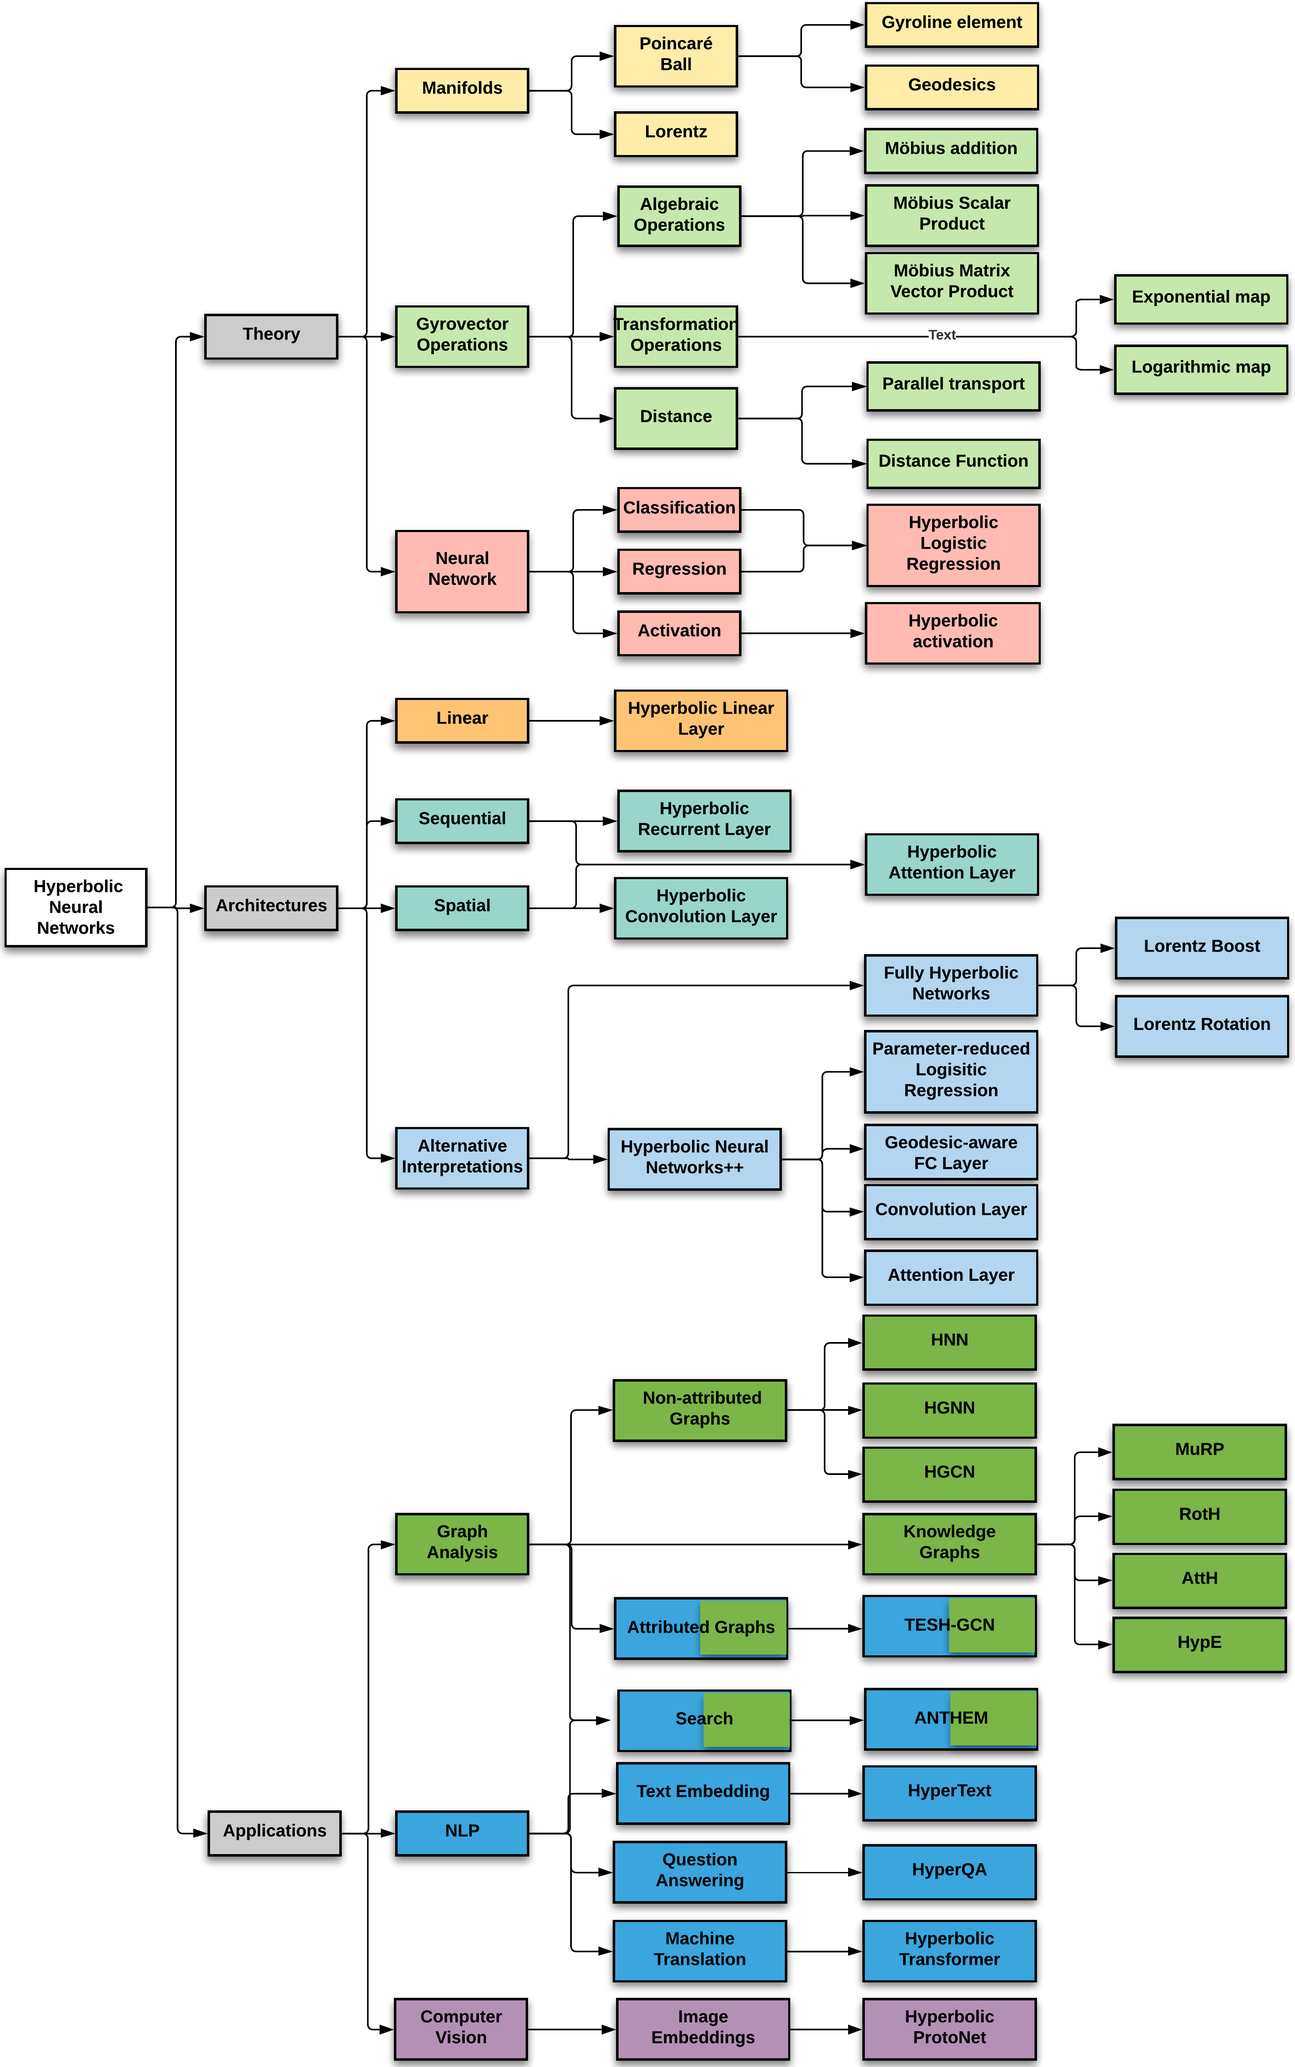
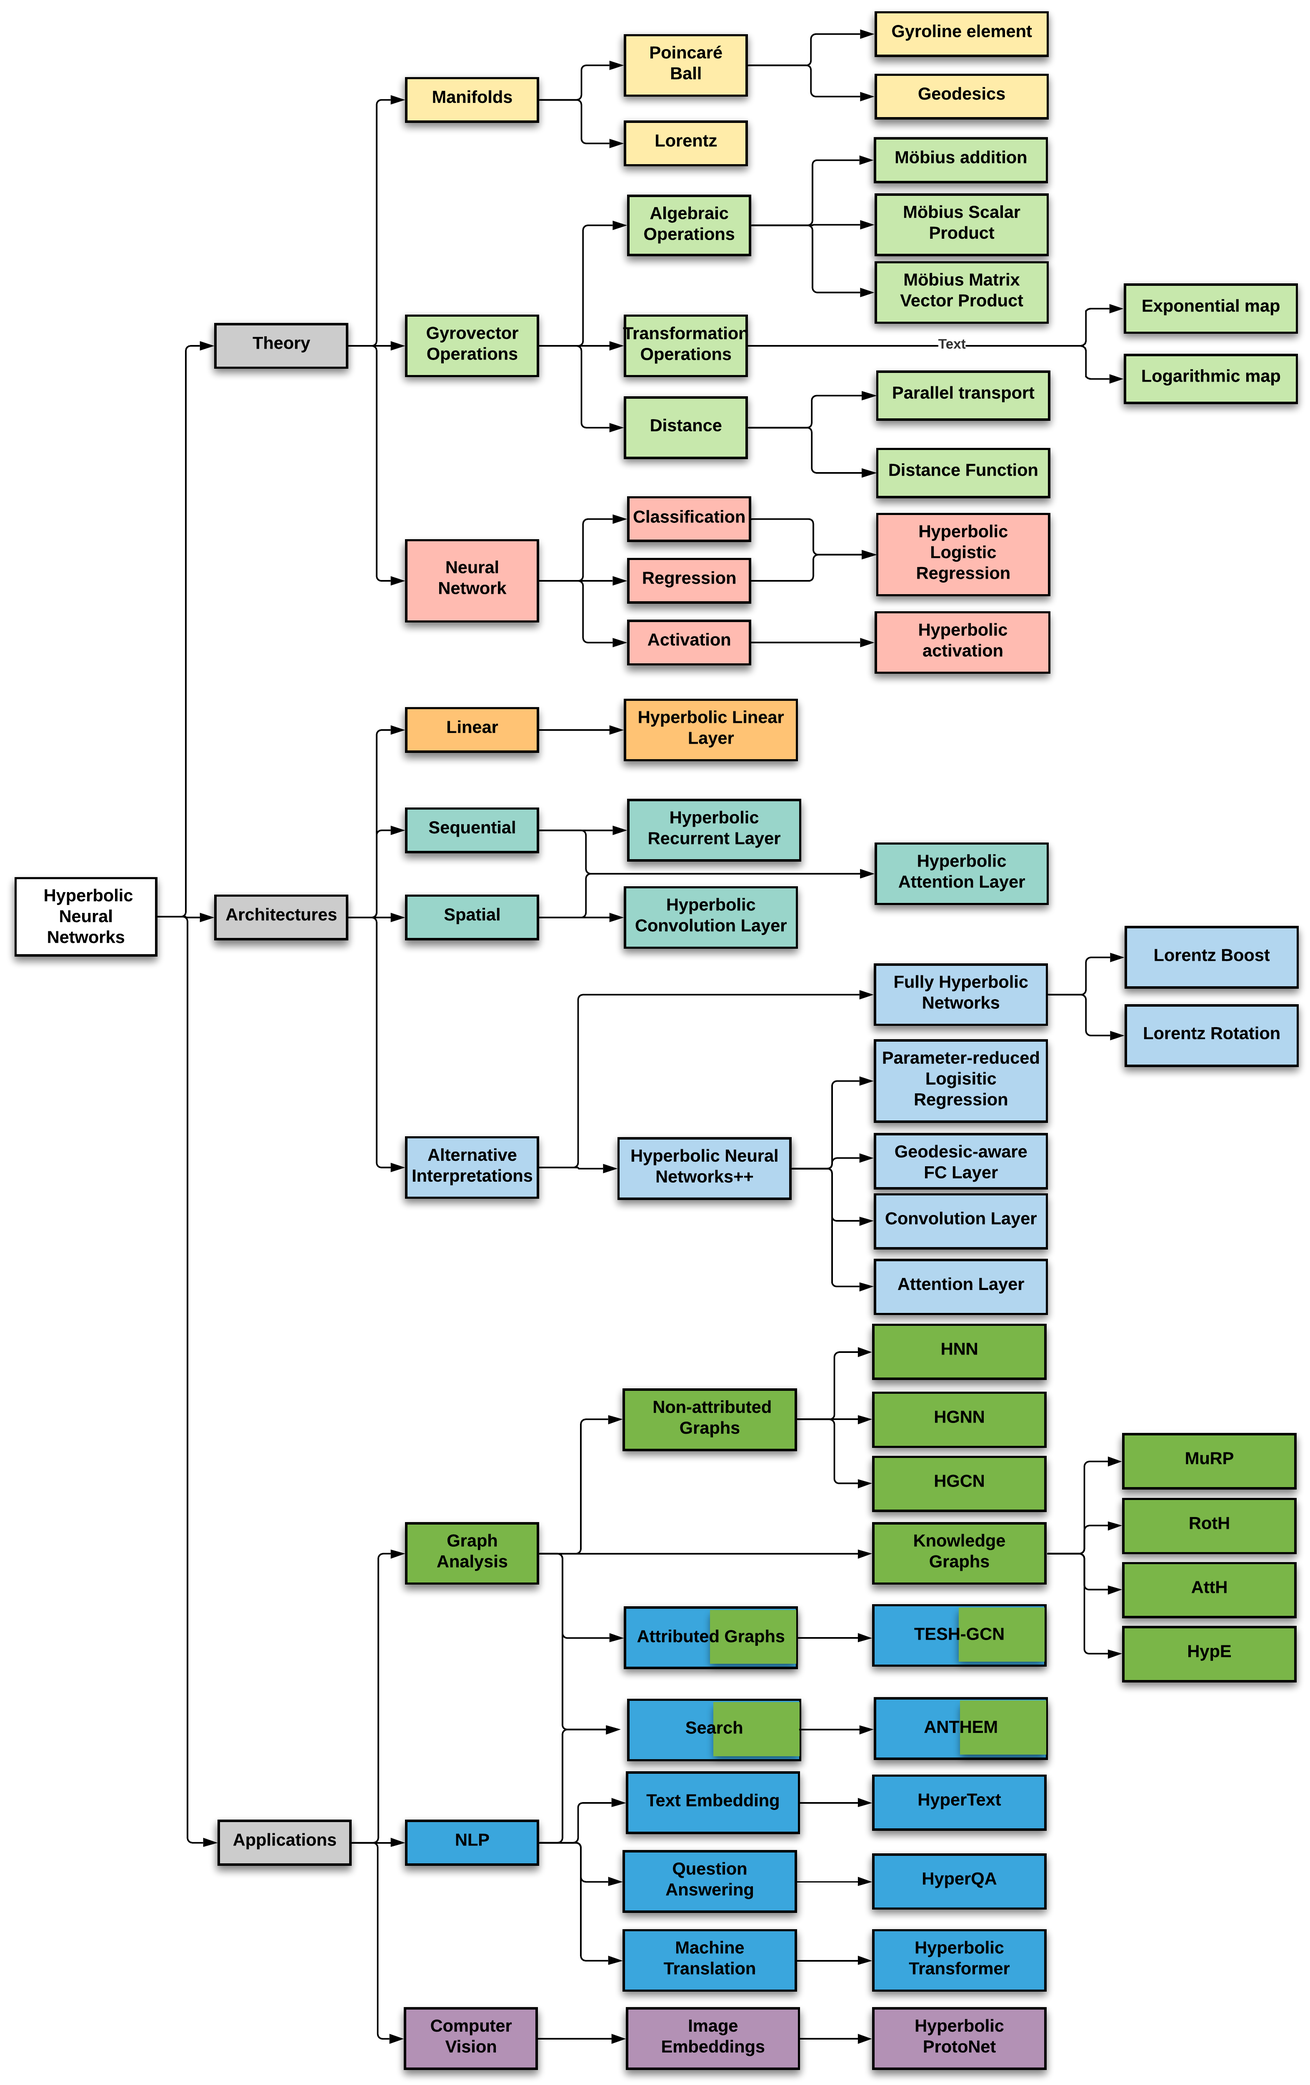
new parts

diff --git a/index.html b/index.html
@@ -31,18 +31,30 @@
                     <li class="nav-item"><a class="nav-link js-scroll-trigger" href="#teaser">Introduction Video</a></li>
                     <li class="nav-item"><a class="nav-link js-scroll-trigger" href="#speakers">Speakers</a></li>
                     <li class="nav-item"><a class="nav-link js-scroll-trigger" href="#schedule">Schedule</a></li>
-                    <li class="nav-item"><a class="nav-link js-scroll-trigger" href="#tree">Topic Tree</a></li>
+                    <li class="nav-item"><a class="nav-link js-scroll-trigger" href="#taxonomy">Taxonomy</a></li>
                     <li class="nav-item"><a class="nav-link js-scroll-trigger" href="#resources">Resources</a></li>
                     <!-- <li class="nav-item"><a class="nav-link js-scroll-trigger" href="#interests">Interests</a></li>
                     <li class="nav-item"><a class="nav-link js-scroll-trigger" href="#awards">Awards</a></li> -->
                 </ul>
             </div>
             <span class="d-block d-lg-none">Virginia Tech</span>
-            <span class="d-none d-lg-block" style="background-color: rgb(300, 300, 300)";><img class="img-fluid img-profile mx-auto mb-2" src="assets/img/vt.png" width="70%" alt="Virginia Tech" /></span>
+            <span class="d-none d-lg-block" style="background-color: rgb(300, 300, 300)";>
+                <a href="https://sanghani.cs.vt.edu/" target="_blank" rel="noopener noreferrer">
+                    <img class="img-fluid img-profile mx-auto mb-2" src="assets/img/vt.png" width="70%" alt="Virginia Tech"/>
+                </a>
+            </span>
             <span class="d-block d-lg-none">Amazon</span>
-            <span class="d-none d-lg-block" style="background-color: rgb(300, 300, 300)";><img class="img-fluid img-profile mx-auto mb-2" src="assets/img/amazon.png" width="60%" alt="Amazon" /></span>
+            <span class="d-none d-lg-block" style="background-color: rgb(300, 300, 300)";>
+                <a href="https://www.amazon.science/" target="_blank" rel="noopener noreferrer">
+                    <img class="img-fluid img-profile mx-auto mb-2" src="assets/img/amazon.png" width="60%" alt="Amazon" />
+                </a>
+            </span>
             <span class="d-block d-lg-none">TheWebConf22</span>
-            <span class="d-none d-lg-block" style="background-color: rgb(300, 300, 300)";><img class="img-fluid img-profile mx-auto mb-2" src="assets/img/twc22.png" width="70%" alt="TheWebConf22" /></span>
+            <span class="d-none d-lg-block" style="background-color: rgb(300, 300, 300)";>
+                <a href="https://www2022.thewebconf.org/" target="_blank" rel="noopener noreferrer">
+                    <img class="img-fluid img-profile mx-auto mb-2" src="assets/img/twc22.png" width="70%" alt="TheWebConf22" />
+                </a>
+            </span>
         </nav>
         <!-- Page Content-->
         <div class="container-fluid p-0">
@@ -52,10 +64,12 @@
                         Hyperbolic Networks:<br>
                         <span class="text-primary">Theory, Architectures and Applications</span>
                     </h2>
-                    <div class="subheading mb-5">
+                    <h5 class="mb-5" style="font-family: 'Trebuchet MS', 'Lucida Sans Unicode', 'Lucida Grande', 'Lucida Sans', Arial, sans-serif">
                         Tutorial @ <a href="https://www2022.thewebconf.org/">TheWebconf 2022</a> · Online · Time and Link: TBD ·
-                        <!-- <a href="mailto:name@email.com">name@email.com</a> -->
-                    </div>
+                    </h5>
+                    <!-- <div class="subheading mb-5" style="font-family: 'Trebuchet MS', 'Lucida Sans Unicode', 'Lucida Grande', 'Lucida Sans', Arial, sans-serif">
+                        Tutorial @ <a href="https://www2022.thewebconf.org/">TheWebconf 2022</a> · Online · Time and Link: TBD ·
+                    </div> -->
                     <p class="lead mb-5">Graphs are ubiquitous data-structures that are widely-used in a
                         number of data storage scenarios, including social networks, recommender systems, 
                         knowledge graphs and e-commerce. This has led to a rise of GNN architectures to 
@@ -82,10 +96,10 @@
                         and computer vision and compare the performance gains to the
                         Euclidean counterparts.</p>
                     <div class="social-icons">
-                        <a class="social-icon" href="#!"><i class="fab fa-linkedin-in"></i></a>
-                        <a class="social-icon" href="#!"><i class="fab fa-github"></i></a>
-                        <a class="social-icon" href="#!"><i class="fab fa-twitter"></i></a>
-                        <a class="social-icon" href="#!"><i class="fab fa-facebook-f"></i></a>
+                        <a class="social-icon" href="https://www.linkedin.com/shareArticle?mini=true&url=https://akirato.github.io/hyperbolic-networks-tutorial/" target="_blank" rel="noopener noreferrer"><i class="fab fa-linkedin-in"></i></a>
+                        <!-- <a class="social-icon" href="#!"><i class="fab fa-github"></i></a> -->
+                        <a class="social-icon" href="https://twitter.com/intent/tweet?url=https://akirato.github.io/hyperbolic-networks-tutorial/&text=Tutorial@TheWebConf2022%20on%20Hyperbolic%20Networks:%20Theory,%20Architectures%20and%20Applications" target="_blank" rel="noopener noreferrer"><i class="fab fa-twitter"></i></a>
+                        <a class="social-icon" href="https://www.facebook.com/sharer/sharer.php?u=https://akirato.github.io/hyperbolic-networks-tutorial/" target="_blank" rel="noopener noreferrer"><i class="fab fa-facebook-f"></i></a>
                     </div>
                 </div>
             </section>
@@ -107,31 +121,26 @@
             <section class="resume-section" id="speakers">
                 <div class="resume-section-content">
                     <h2 class="mb-5">Speakers</h2>
-                    <div class="d-flex flex-column flex-md-row justify-content-between mb-5">
-                        <a class="navbar-brand js-scroll-trigger" href="https://people.cs.vt.edu/~reddy/">
-                            <span class="d-block d-lg-none">Chandan Reddy</span>
-                            <span class="d-none d-lg-block"><img class="img-fluid img-profile rounded-circle mx-auto mb-2" src="assets/img/reddy.jpeg" alt="Chandan Reddy" /></span>
+                    <div class="d-flex flex-column flex-md-row justify-content-between">
+                        <a class="navbar-brand js-scroll-trigger" href="https://nurendra.me/">
+                            <span class="d-block d-lg-none">Nurendra Choudhary</span>
+                            <span class="d-none d-lg-block"><img class="img-fluid img-profile rounded-circle mx-auto mb-2" src="assets/img/nurendra.jpeg" alt="Chandan Reddy" /></span>
                         </a>
                         <div class="flex-grow-1">
-                            <h3 class="mb-0">Chandan Reddy</h3>
-                            <div class="subheading mb-3">Professor, Department of Computer Science, Virginia Tech</div>
-                            <p>Chandan Reddy received his Ph.D. from Cornell University and M.S. from Michigan State University. 
-                                His primary research
-                                interests are Data Mining and Machine Learning with applications
-                                to Healthcare Analytics and Social Network Analysis. His research
-                                has been funded by NSF, NIH, DOE, DOT, and various industries.
-                                He has published over 140 peer-reviewed articles in leading conferences 
-                                and journals. He received several awards for his research
-                                work including the Best Application Paper Award at ACM SIGKDD
-                                conference in 2010, Best Poster Award at IEEE VAST conference in
-                                2014, Best Student Paper Award at IEEE ICDM conference in 2016,
-                                and was a finalist of the INFORMS Franz Edelman Award Competition 
-                                in 2011. He is serving on the editorial boards of ACM TKDD,
-                                ACM TIST, and IEEE Big Data journals. He is a senior member of
-                                the IEEE and distinguished member of the ACM.</p>
+                            <h3 class="mb-0">Nurendra Choudhary</h3>
+                            <div class="subheading mb-3">Ph.D. student, Virginia Tech</div>
+                            <p>Nurendra Choudhary is a Ph.D. student in the department of
+                                Computer Science at Virginia Tech. His research, under advisor Dr.
+                                Chandan Reddy, is focused on representation learning in the fields
+                                of graph analysis and product search. He has published several peer-
+                                reviewed papers in top-tier conferences including WWW, NeurIPS,
+                                WSDM, and COLING. He has received his M.S. in Computational
+                                Linguistics from International Institute of Information Technology,
+                                during which he received the Best Paper Award at CICLING, 2018.</p>
                         </div>
-                        <!-- <div class="flex-shrink-0"><span class="text-primary">March 2013 - Present</span></div> -->
+                        <!-- <div class="flex-shrink-0"><span class="text-primary">September 2008 - June 2010</span></div> -->
                     </div>
+                    <br><br>
                     <div class="d-flex flex-column flex-md-row justify-content-between mb-5">
                         <a class="navbar-brand js-scroll-trigger" href="https://sites.google.com/view/raonikhil/home">
                             <span class="d-block d-lg-none">Nikhil Rao</span>
@@ -202,25 +211,31 @@
                         </div>
                         <!-- <div class="flex-shrink-0"><span class="text-primary">September 2008 - June 2010</span></div> -->
                     </div>
-                    <br/><br/>
-                    <div class="d-flex flex-column flex-md-row justify-content-between">
-                        <a class="navbar-brand js-scroll-trigger" href="https://nurendra.me/">
-                            <span class="d-block d-lg-none">Nurendra Choudhary</span>
-                            <span class="d-none d-lg-block"><img class="img-fluid img-profile rounded-circle mx-auto mb-2" src="assets/img/nurendra.jpeg" alt="Chandan Reddy" /></span>
+                    <br><br>
+                    <div class="d-flex flex-column flex-md-row justify-content-between mb-5">
+                        <a class="navbar-brand js-scroll-trigger" href="https://people.cs.vt.edu/~reddy/">
+                            <span class="d-block d-lg-none">Chandan Reddy</span>
+                            <span class="d-none d-lg-block"><img class="img-fluid img-profile rounded-circle mx-auto mb-2" src="assets/img/reddy.jpeg" alt="Chandan Reddy" /></span>
                         </a>
                         <div class="flex-grow-1">
-                            <h3 class="mb-0">Nurendra Choudhary</h3>
-                            <div class="subheading mb-3">Ph.D. student, Virginia Tech</div>
-                            <p>Nurendra Choudhary is a Ph.D. student in the department of
-                                Computer Science at Virginia Tech. His research, under advisor Dr.
-                                Chandan Reddy, is focused on representation learning in the fields
-                                of graph analysis and product search. He has published several peer-
-                                reviewed papers in top-tier conferences including WWW, NeurIPS,
-                                WSDM, and COLING. He has received his M.S. in Computational
-                                Linguistics from International Institute of Information Technology,
-                                during which he received the Best Paper Award at CICLING, 2018.</p>
+                            <h3 class="mb-0">Chandan Reddy</h3>
+                            <div class="subheading mb-3">Professor, Department of Computer Science, Virginia Tech</div>
+                            <p>Chandan Reddy received his Ph.D. from Cornell University and M.S. from Michigan State University. 
+                                His primary research
+                                interests are Data Mining and Machine Learning with applications
+                                to Healthcare Analytics and Social Network Analysis. His research
+                                has been funded by NSF, NIH, DOE, DOT, and various industries.
+                                He has published over 140 peer-reviewed articles in leading conferences 
+                                and journals. He received several awards for his research
+                                work including the Best Application Paper Award at ACM SIGKDD
+                                conference in 2010, Best Poster Award at IEEE VAST conference in
+                                2014, Best Student Paper Award at IEEE ICDM conference in 2016,
+                                and was a finalist of the INFORMS Franz Edelman Award Competition 
+                                in 2011. He is serving on the editorial boards of ACM TKDD,
+                                ACM TIST, and IEEE Big Data journals. He is a senior member of
+                                the IEEE and distinguished member of the ACM.</p>
                         </div>
-                        <!-- <div class="flex-shrink-0"><span class="text-primary">September 2008 - June 2010</span></div> -->
+                        <!-- <div class="flex-shrink-0"><span class="text-primary">March 2013 - Present</span></div> -->
                     </div>
                 </div>
             </section>
@@ -285,9 +300,9 @@
                 </div>
             </section>
             <hr class="m-0" />
-            <section class="resume-section" id="tree">
+            <section class="resume-section" id="taxonomy">
                 <div class="resume-section-content">
-                    <h2 class="mb-5">Topic Tree</h2>
+                    <h2 class="mb-5">Taxonomy</h2>
                     <img src="assets/img/taxonomy.png" class="img-fluid" alt="Responsive image" width="75%">
                 </div>
             </section>
@@ -305,24 +320,33 @@
                         </li>
                         <li>
                             <span class="fa-li" style="color: #BD5D38;"><i class="fas fa-book-open"></i></span>
-                            Choudhary, N., Rao, N., Katariya, S., Subbian, K., & Reddy, C. K. (2021, April). Self-Supervised Hyperboloid Representations from Logical Queries over Knowledge Graphs. In Proceedings of the Web Conference 2021 (pp. 1373-1384).
+                            Choudhary, N., Rao, N., Katariya, S., Subbian, K., & Reddy, C. K. (2022, February). ANTHEM: Attentive Hyperbolic Entity Model for Product Search. In Proceedings of the International Conference on Web Search and Data Mining 2022.
+                            (<a href="https://people.cs.vt.edu/~reddy/papers/WSDM22.pdf" target="_blank" rel="noopener noreferrer">pdf</a>)
                         </li>
                         <li>
                             <span class="fa-li" style="color: #BD5D38;"><i class="fas fa-book-open"></i></span>
                             Choudhary, N., Rao, N., Katariya, S., Subbian, K., & Reddy, C. (2021). Probabilistic Entity Representation Model for Reasoning over Knowledge Graphs. Advances in Neural Information Processing Systems, 34.
+                            (<a href="https://people.cs.vt.edu/~reddy/papers/NeurIPS21.pdf" target="_blank" rel="noopener noreferrer">pdf</a>)
+                        </li>
+                        <li>
+                            <span class="fa-li" style="color: #BD5D38;"><i class="fas fa-book-open"></i></span>
+                            Choudhary, N., Rao, N., Katariya, S., Subbian, K., & Reddy, C. K. (2021, April). Self-Supervised Hyperboloid Representations from Logical Queries over Knowledge Graphs. In Proceedings of the Web Conference 2021 (pp. 1373-1384).
+                            (<a href="https://people.cs.vt.edu/~reddy/papers/WWW21a.pdf" target="_blank" rel="noopener noreferrer">pdf</a>)
                         </li>
                         <li>
                             <span class="fa-li" style="color: #BD5D38;"><i class="fas fa-book-open"></i></span>
                             Chami, I., Ying, Z., Ré, C., & Leskovec, J. (2019). Hyperbolic graph convolutional neural networks. Advances in neural information processing systems, 32, 4868-4879.
+                            (<a href="https://arxiv.org/pdf/1910.12933.pdf" target="_blank" rel="noopener noreferrer">pdf</a>)
                         </li>
                         <li>                            
                             <span class="fa-li" style="color: #BD5D38;"><i class="fas fa-book-open"></i></span>
                             Ganea, O. E., Bécigneul, G., & Hofmann, T. (2018). Hyperbolic neural networks. Advances in neural information processing systems, 5345-5355.
+                            (<a href="https://arxiv.org/pdf/1805.09112.pdf" target="_blank" rel="noopener noreferrer">pdf</a>)
                         </li>
                         <li>
                             <span class="fa-li" style="color: #BD5D38;"><i class="fas fa-book-open"></i></span>
                             Shimizu, R., Mukuta, Y., & Harada, T. (2021). Hyperbolic neural networks++. International Conference on Learning Representations.
-
+                            (<a href="https://arxiv.org/pdf/2006.08210.pdf" target="_blank" rel="noopener noreferrer">pdf</a>)
                         </li>
                     </ul>
                 </div>
